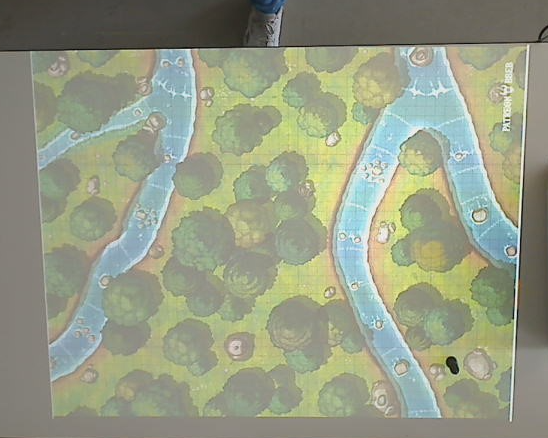
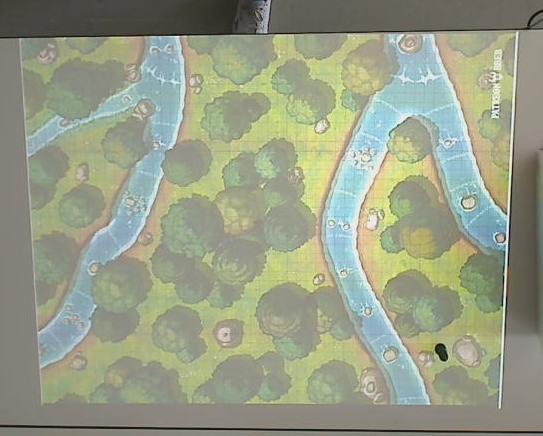
Automatisierte Screenshots in GameLoop aufgenommen

diff --git a/Game.py b/Game.py
@@ -9,22 +9,24 @@ import pyautogui
 import mouse
 import mss
 
-def place_figures(figure_type):
+
+region = None
+
+def place_figures(figure_type, region=None):
     save_path="Assets\\map_with_figure_screenshot.png"
     i = 0
-    while True:
+    while True:        
         answer = input("Möchtest du neue Figuren auf das Brett stellen? (J/N): ").strip().upper()
         if answer == "N":
-            print("Das Programm endet.")
             break
         elif answer == "J":
-            region = take_screenshot(without_figure_image_path)
+            region = take_screenshot(without_figure_image_path,region)
             transformed_map_without_image = camera_imgTransformer.transform_image(without_figure_image_path)
             cv2.imshow('CameraFigure1',transformed_map_without_image)
             cv2.waitKey()
             print("Stelle eine neue Figur aufs Spielfeld und bestätige mit ENTER.")
             input()
-            take_screenshot(with_figure_image_path,region)
+            region = take_screenshot(with_figure_image_path,region)
             transformed_map_with_image = camera_imgTransformer.transform_image(with_figure_image_path)
             cv2.imshow('CameraFigure2',transformed_map_with_image)
             cv2.waitKey()
@@ -36,13 +38,15 @@ def place_figures(figure_type):
         else:
             print("Ungültige Eingabe. Bitte gib 'J' für Ja oder 'N' für Nein ein.")
 
+    return region
+
 
 def take_screenshot(save_path="Assets\\map_screenshot.png", region=None):
     if region is None:
-        print("Wähle den oberen linken Punkt des Kamera-Bildes.")
+        print("Bitte wähle den oberen linken Punkt des Kamera-Bildes OHNE Figur.")
         x1, y1 = get_click_position()
         print(f"Erster Punkt gewählt: ({x1}, {y1})")
-        print("Wähle den unteren rechten Punkt des Kamera-Bildes.")
+        print("Wähle den unteren rechten Punkt des Kamera-Bildes OHNE Figur.")
         x2, y2 = get_click_position()
         print(f"Zweiter Punkt gewählt: ({x2}, {y2})")
         left = min(x1, x2)
@@ -99,7 +103,7 @@ beamer_imgProcessor.resize_image()
 # Bild anzeigen in Window Main
 
 
-print("Ready to Start?")
+print("---- PRESS ENTER TO START ----")
 input()
 
 beamer_imgProcessor.display_image("Map")
@@ -133,10 +137,10 @@ figure_sequence = []
 game_field = GameField(game_field_height,game_field_width) 
 
 # 3. Player Figuren placen
-place_figures(Figure_Type.PLAYER)
+region = place_figures(Figure_Type.PLAYER)
 
 # 4. Enemy Figuren placen
-place_figures(Figure_Type.ENEMY)
+region = place_figures(Figure_Type.ENEMY,region)
 
 # 3.    Player Figuren anlegen
 # for i in range(1,player_count+1):      
@@ -177,7 +181,7 @@ selected_figure = 0
 while(not finished):
     # 1.	Figur die dran ist auswählen
     # Nach der Reihenfolge Player_1 bis Player_X, danach Gegner_1 bis Gegner_X
-    selected_figure = figure_sequence[round % all_figures_count]
+    selected_figure = figure_sequence[round % (all_figures_count+1)]
     
 
     # 2.	Start- und Endposition der Figur einlesen
@@ -185,9 +189,11 @@ while(not finished):
     # ToDo: Die Start-Positionen müssen später über Kamera eingelesen werden
     print(f"\nStartposition {selected_figure.id} einlesen... ")
     input() 
+    region = take_screenshot(without_figure_image_path,region)
     print(f"Aktuelle Position: {selected_figure.position}")
     print("Figur umstellen und mit ENTER bestätigen!")
     input()
+    region = take_screenshot(without_figure_image_path,region)    
     x,y = start_pos
     end_pos = (x + 1 , y + 1) 
     # ToDo: Die End-Positionen müssen später über Kamera eingelesen werden
